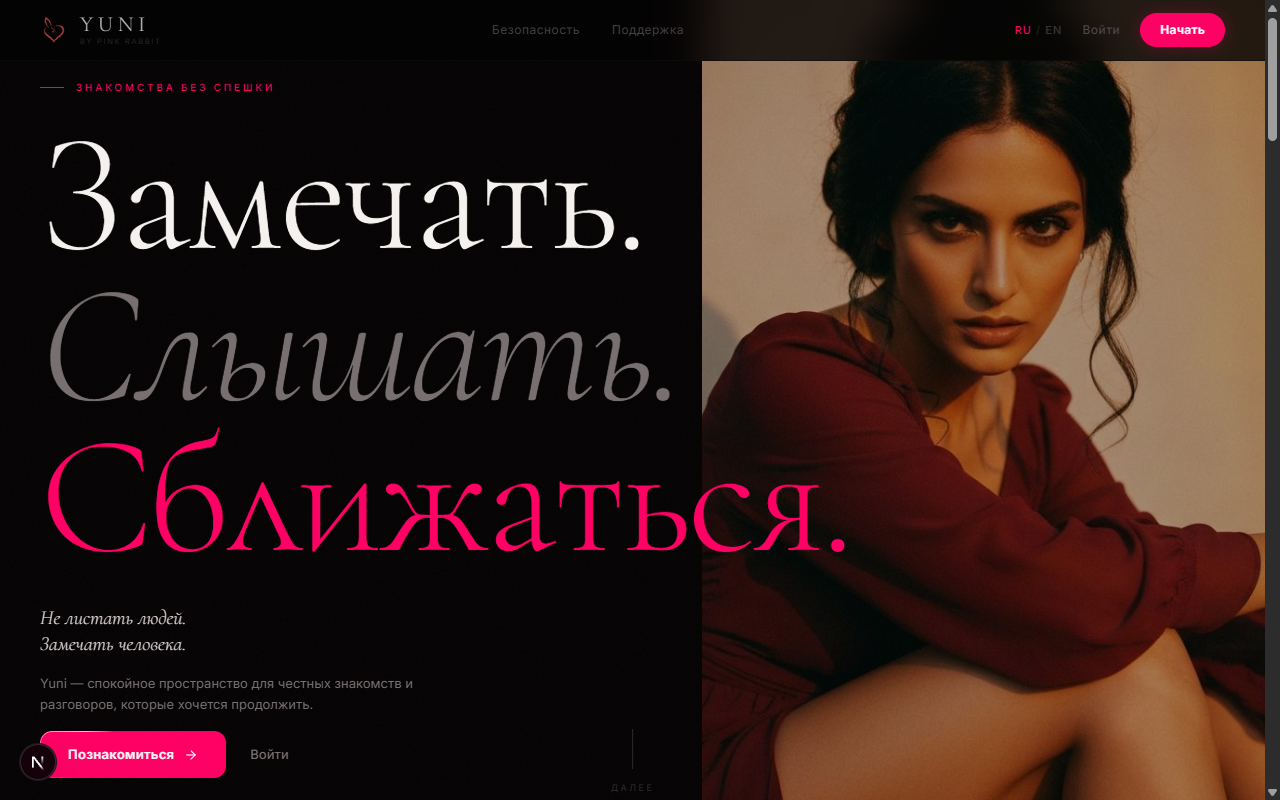
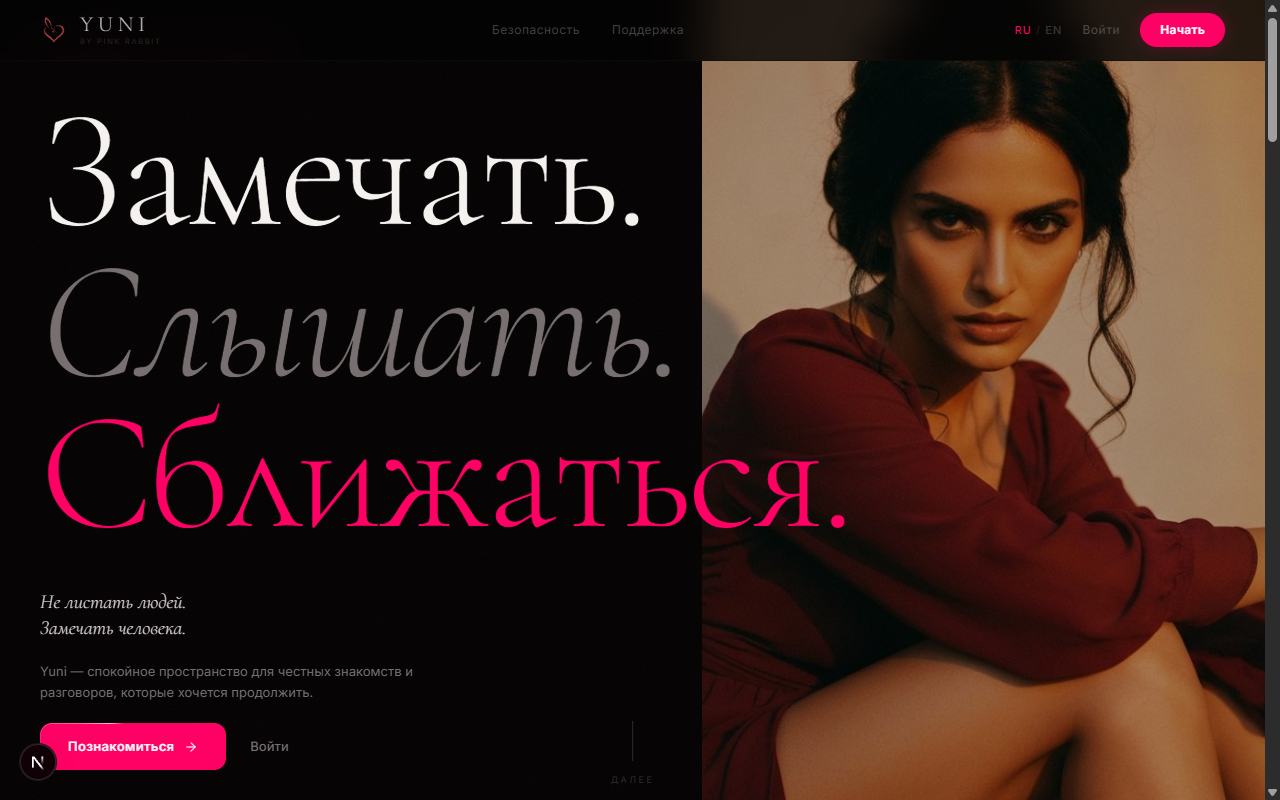
fix(landing): take hero CTA pixels from pt, keep md: scoped to desktop
Code review caught two problems in the first pass: it cut base
mb/mt/gap values (not just the md: desktop overrides), which tightened
the rhythm on 390x844 where there was no defect and grew the empty
space below the CTA from 284px to 340px; and the 22px buffer at
1280x800 is a screen size, not a window size — a ~30px bookmarks bar
would push the CTA back under the fold.

Both fixed by taking the savings from pt (pt-28 md:pt-12, mobile pt-28
untouched) and keeping mb-8/mt-10/gap-5 as base values with no md:
override at all, so desktop just uses the mobile figure instead of a
separately trimmed one. Desktop CTA bottom: 907 -> 770 (30px buffer,
up from 22px). Mobile now matches the pre-PR-78 measurements to the
pixel (eyebrow.top, cta.top, cta.bottom unchanged).

Re-verified on all four viewports, screenshots replaced in
docs-site/content/tasks/074.md. Task 075 untouched — lint still at 17.

diff --git a/apps/frontend/components/landing/hero.tsx b/apps/frontend/components/landing/hero.tsx
@@ -77,10 +77,10 @@ export function Hero({ lang }: HeroProps) {
         min-height so the background, portrait and bottom scroll cue still span
         the viewport — only the text block moves up.
       */}
-      <div className="relative z-10 mx-auto flex min-h-screen min-h-[100svh] max-w-7xl flex-col justify-start px-6 pb-14 pt-20 md:px-10">
+      <div className="relative z-10 mx-auto flex min-h-screen min-h-[100svh] max-w-7xl flex-col justify-start px-6 pb-14 pt-28 md:px-10 md:pt-12">
 
         {/* Eyebrow */}
-        <div className="motion-fade-up mb-6 flex items-center gap-3">
+        <div className="motion-fade-up mb-8 flex items-center gap-3">
           <span className="h-px w-6 flex-shrink-0 bg-primary" />
           <span className="font-sans text-[10px] font-medium uppercase tracking-[0.28em] text-primary">
             {t.eyebrow}
@@ -99,7 +99,7 @@ export function Hero({ lang }: HeroProps) {
         </div>
 
         {/* Bottom strip: tagline + sub + CTA */}
-        <div className="mt-8 flex max-w-sm flex-col gap-4">
+        <div className="mt-10 flex max-w-sm flex-col gap-5">
 
           {/* Emotional tagline — warm, direct */}
           <p

diff --git a/docs/ROADMAP.md b/docs/ROADMAP.md
@@ -103,7 +103,7 @@ Priority vocabulary: `P0`, `P1`, `P2`, `P3`.
 | 061 | Два флага видимости профиля | done | P2 | PR #82 / merge `5b4b9a9`; статус в ROADMAP остался `review` после мержа — поправлено при верификации Task 046. `discoverable` добавлен в `ProfileAccessResource` и в `targetProfileSelect` (`likes.service.ts`), закрыты оба пути — `GET /profiles/:handle` и лайк/скип. Схема и оба UI-переключателя не менялись; полная evidence — `docs-site/content/tasks/061.md`. |
 | 076 | Jest во frontend + тесты чистой логики | done | P2 | PR #84 / merge `2b0d39d`; статус в ROADMAP остался `review` после мержа — тот же класс расхождения, что у Task 061, поправлено заодно с ним. Jest 29.7.0/ts-jest/@types/jest наравне с бэкендом, `pnpm --filter frontend test` в `quality-gates.yml`. Покрыты `features/profile/form-state.ts`, `lib/default-avatar.ts`, `lib/utils.ts`, `lib/auth-api.ts`, плюс `required-fields.contract.test.ts` на расхождение обязательных полей frontend/backend (Task 070). Полная evidence — `docs-site/content/tasks/076.md`. |
 | 048 | Staged-chat contract alignment | done | P2 | Ветка `feat/task-048-chat-contract`, `bc6eb33`; PR не открыт — открывает владелец. Контракт (`senderUserId: string \| null`, `isSystemMessage`, `voiceDurationSec`, `messageWeight`), рендер (три случая вместо двух, `features/chat/message-render.ts`) и тесты (frontend + backend, включая pin формы `ChatMessageView`) сделаны. Визуальная проверка `chrome-devtools-mcp` пройдена 390×844 и 1280×900 на `demo@seed.yuni.local`: системное сообщение и голосовое рендерятся как задумано, список диалогов не путает системное с репликой собеседника, переполнения и новых ошибок консоли нет. Полная evidence, включая временную правку demo-БД для воспроизведения кейса «последнее сообщение — системное» (возвращена к исходному состоянию), — `docs-site/content/tasks/048.md`. |
-| 074 | Главный CTA лендинга ниже сгиба | done | P1 | Ветка `fix/task-074-hero-cta`; PR не открыт — открывает владелец. Замер `getBoundingClientRect()` по слагаемым (`pt-28` 112px, eyebrow+`mb-14` 56px, заголовок 454px, `mt-16` 64px, tagline+sub+`gap-8`×2, CTA 48px, `pb-20` 80px = 986px стек) показал переизбыток именно в нижних отступах, не в заголовке. Убраны `md:`-надбавки (`mb-14`→`mb-6`, `mt-16`→`mt-8`, `gap-8`→`gap-4`, `md:pb-20` снят) и снижен `pt-28`→`pt-20`, `justify-start` не тронут. `cta.bottom` на 1280×800 — было 907 (за сгибом на 107px), стало 778 (запас 22px); на 1280×1100 `eyebrow.top` не изменился (80px и там, и на 800/900) — пустой промежуток под навбаром (дефект `3a196a3`) не вернулся; 390×844 не пострадал (`cta.bottom` 560→504, всё ещё далеко от края). Проверено на всех четырёх вьюпортах в chrome-devtools-mcp на реальном dev-сервере, скриншоты до/после — `docs-site/content/tasks/074.md`. |
+| 074 | Главный CTA лендинга ниже сгиба | done | P1 | Ветка `fix/task-074-hero-cta`; PR не открыт — открывает владелец. Замер `getBoundingClientRect()` по слагаемым (`pt-28` 112px, eyebrow+`mb-14` 56px, заголовок 454px, `mt-16` 64px, tagline+sub+`gap-8`×2, CTA 48px, `pb-20` 80px = 986px стек) показал переизбыток именно в нижних отступах, не в заголовке. Первая версия правки резала и `md:`-надбавки, и базовые (мобильные) значения `mb`/`mt`/`gap` — это задело 390×844 (пустота под CTA выросла 284→340px) и оставляло на 1280×800 только 22px запаса (меньше типичной высоты панели закладок браузера, ~30px). Исправлено по code review: пиксели берутся из `pt` (`pt-28 md:pt-12`, мобильный `pt-28` не тронут), а `mb-8 md:mb-14`/`mt-10 md:mt-16`/`gap-5 md:gap-8` возвращены к базовым значениям без `md:`-надбавок (на десктопе используется мобильное значение, мобильный не меняется). `justify-start` не тронут. `cta.bottom` на 1280×800 — было 907, стало 770 (запас 30px); на 1280×1100 `eyebrow.top` не изменился (48px и там, и на 800/900) — пустой промежуток под навбаром (дефект `3a196a3`) не вернулся; 390×844 совпал с состоянием «до PR #78» с точностью до пикселя (`eyebrow.top`, `cta.top`, `cta.bottom` не изменились). Проверено на всех четырёх вьюпортах в chrome-devtools-mcp на реальном dev-сервере, скриншоты до/после — `docs-site/content/tasks/074.md`. |
 | 075 | lint-baseline вырос с 17 до 18 | done | P3 | Task 074 | Ветка `fix/task-074-hero-cta`; PR не открыт — открывает владелец. Гипотеза «ленивый инициализатор `useState` сломает гидратацию» подтверждена прогоном, а не рассуждением: `node -e "typeof IntersectionObserver"` → `undefined` на сервере, временно применённый ленивый инициализатор дал React-ошибку `A tree hydrated but some attributes ... didn't match` (`data-visible="false"` клиент / `"true"` сервер) на всех 18 `InView`-инстансах SSR-страницы. Вариант отпал. Применён точечный `eslint-disable-next-line react-hooks/set-state-in-effect` с комментарием на `in-view.tsx:40-51`, объясняющим и ветку фолбэка, и почему ленивая инициализация не подходит. Фолбэк-путь перепроверен: `IntersectionObserver` удалён из `window` через `initScript`, все 18 элементов получили `data-visible="true"` сразу, новых ошибок в консоли нет. `pnpm --filter frontend lint`: 18 → 17 warnings, ровно на одно меньше. Evidence — `docs-site/content/tasks/075.md`. |
 
 ## Отложено

diff --git a/docs-site/content/tasks/074.md b/docs-site/content/tasks/074.md
@@ -77,22 +77,35 @@ weight: 74
 
 ## Решение
 
-Убраны только desktop-специфичные надбавки отступов (`md:`-варианты) и
-чуть снижен верхний паддинг — без возврата `justify-center`:
+Первая версия правки резала и `md:`-надбавки, и базовые (мобильные) значения
+`mb`/`mt`/`gap` — это задело 390×844, где проблемы не было (пустота под CTA
+выросла с 284px до 340px), и оставляла на 1280×800 всего 22px запаса,
+то есть размер экрана, а не окна: панель закладок браузера отъедает
+~30px высоты, и дефект вернулся бы у части пользователей. Исправлено:
+пиксели берутся из `pt` (единственное значение, где после `md:`-варианта
+ещё остаётся мобильный базовый `pt-28`, то есть мобильный `pt` не
+меняется), а `mb`/`mt`/`gap` возвращены к исходным базовым значениям без
+`md:`-надбавок вообще — то есть на десктопе используется мобильное
+значение, на мобильном ничего не поменялось:
 
-| Класс | Было (desktop) | Стало (все брейкпоинты) | Экономия на desktop |
-| --- | --- | --- | --- |
-| `pt-28` → `pt-20` | 112px | 80px | 32px |
-| `mb-8 md:mb-14` → `mb-6` | 56px | 24px | 32px |
-| `mt-10 md:mt-16` → `mt-8` | 64px | 32px | 32px |
-| `gap-5 md:gap-8` → `gap-4` | 32px | 16px | 16px×2 |
-| `pb-14 md:pb-20` → `pb-14` | 80px | 56px | 24px (ниже CTA — на его позицию не влияет, только на нижний паддинг стека) |
+| Класс | Было (desktop) | Стало (desktop) | Мобильный (390×844) | Экономия на desktop |
+| --- | --- | --- | --- | --- |
+| `pt-28` → `pt-28 md:pt-12` | 112px | 48px | не тронут (`pt-28`, 112px) | 64px |
+| `mb-8 md:mb-14` → `mb-8` | 56px | 32px | не тронут (`mb-8`, 32px) | 24px |
+| `mt-10 md:mt-16` → `mt-10` | 64px | 40px | не тронут (`mt-10`, 40px) | 24px |
+| `gap-5 md:gap-8` → `gap-5` | 32px | 20px | не тронут (`gap-5`, 20px) | 12px×2 |
+| `pb-14 md:pb-20` → `pb-14` | 80px | 56px | не тронут (`pb-14`, 56px — было и так) | 24px (ниже CTA, на его позицию не влияет) |
 
-Итог: `top` эйброу теперь `80px` (было `112px`) на всех вьюпортах, CTA
-`bottom` на 1280×800 — `778px` (запас 22px до сгиба). `justify-start`
-сохранён — эйброу по-прежнему стоит на константной высоте от навбара на
-любом вьюпорте, пустой промежуток под шапкой (дефект `3a196a3`) не
-воспроизводится (проверено на 1280×1100 — `eyebrow.top` не изменился).
+Итог на десктопе: `pt` даёт 64px экономии, `mb`+`mt`+`gap` — ещё 72px,
+суммарно 136px вместо прежних 129px. CTA `bottom` на 1280×800 —
+`770px` (запас 30px, а не 22px). Эйброу теперь на `top=48px` (не `80px`,
+как в первой версии) на всех десктопных вьюпортах — `justify-start`
+сохранён, пустой промежуток под шапкой (дефект `3a196a3`) не
+воспроизводится (1280×1100 — `eyebrow.top` не изменился).
+
+На мобильном ни одно значение из класса `pt-28`/`mb-8`/`mt-10`/`gap-5`/
+`pb-14` не тронуто `md:`-вариантом — 390×844 численно совпал с состоянием
+до PR #78 (см. Evidence).
 
 Одного значения хватило на обе стороны задачи — вариант, зависящий от
 высоты вьюпорта, не понадобился.
@@ -100,7 +113,8 @@ weight: 74
 ## Evidence
 
 Скриншоты сделаны через chrome-devtools-mcp на реально запущенном
-dev-сервере (`next dev`, кэш `.next` предварительно очищен), не мокапом.
+dev-сервере (`next dev`), не мокапом. «После» переснято во второй итерации
+правки — старые скриншоты первой (неверной) итерации заменены.
 
 | Вьюпорт | До | После |
 | --- | --- | --- |
@@ -111,12 +125,15 @@ dev-сервере (`next dev`, кэш `.next` предварительно оч
 
 Замеры `getBoundingClientRect()` после правки:
 
-- 1280×800 — `cta.bottom = 778` (видна целиком, запас 22px);
-- 1280×900 — `cta.bottom = 778` (видна целиком);
-- 1280×1100 — `eyebrow.top = 80` (совпадает с 800/900, пустого промежутка под
-  навбаром нет);
-- 390×844 — `cta.bottom = 504` (было 560, всё ещё далеко от края экрана,
-  вёрстка не поехала, консоль без новых ошибок).
+- 1280×800 — `eyebrow.top = 48`, `cta.bottom = 770` (видна целиком, запас
+  30px, переживает ~30px панели закладок браузера);
+- 1280×900 — `eyebrow.top = 48`, `cta.bottom = 770` (видна целиком);
+- 1280×1100 — `eyebrow.top = 48` (совпадает с 800/900, пустого промежутка
+  под навбаром нет);
+- 390×844 — `eyebrow.top = 112`, `cta.top = 512`, `cta.bottom = 560` —
+  **совпадает с замером «до» с точностью до пикселя**
+  (`eyebrow.top`, `cta.top`, `cta.bottom` не изменились ни на пиксель),
+  пустота под CTA — `844 − 560 = 284px`, как и было до PR #78.
 
 `list_console_messages` на всех четырёх — без новых ошибок (единственная
 ошибка в консоли — не относящийся к теме CORS-фейл `/auth/refresh` от
